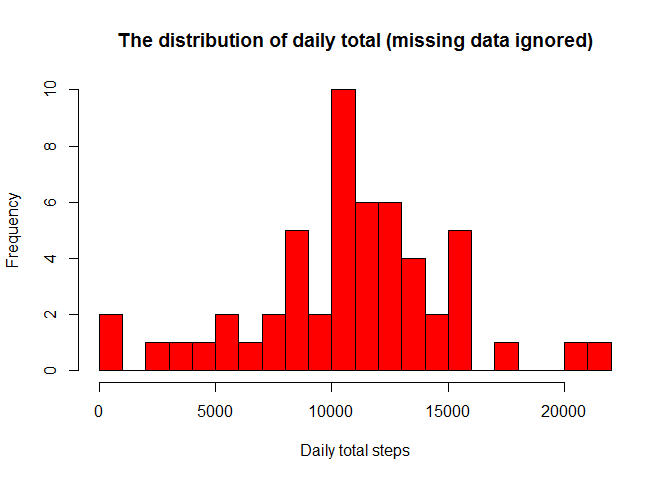
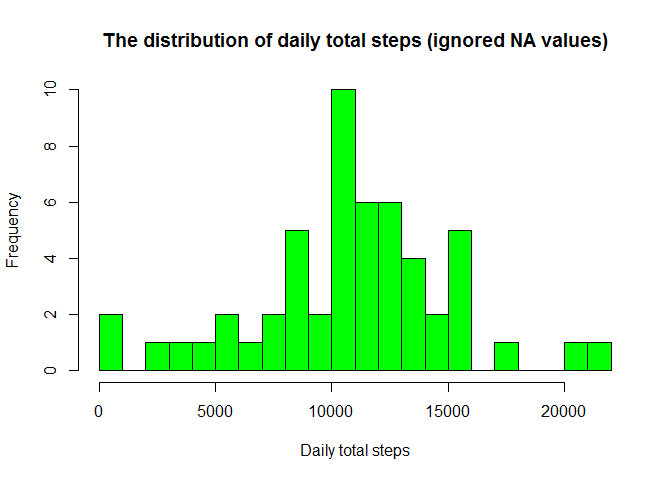
Second commit

diff --git a/PA1_template.html b/PA1_template.html
@@ -123,7 +123,7 @@ $(document).ready(function () {
 <div id="loading-and-preprocessing-the-data" class="section level2">
 <h2>Loading and preprocessing the data</h2>
 <p>Loading data into environment :</p>
-<pre class="r"><code>setwd(&quot;C:/workspace/R training/RepData_PeerAssessment1&quot;)
+<pre class="r"><code>setwd(&quot;C:/workspace/R training/RepData_PeerAssessment1-1&quot;)
 dataset &lt;- read.csv(&quot;activity.csv&quot;, head = TRUE, na.strings = &quot;NA&quot;)
 summary(dataset)</code></pre>
 <pre><code>##      steps                date          interval     
@@ -134,8 +134,12 @@ summary(dataset)</code></pre>
 ##  3rd Qu.: 12.00   2012-10-05:  288   3rd Qu.:1766.2  
 ##  Max.   :806.00   2012-10-06:  288   Max.   :2355.0  
 ##  NA's   :2304     (Other)   :15840</code></pre>
+<pre class="r"><code>max(dataset$interval)</code></pre>
+<pre><code>## [1] 2355</code></pre>
 <p>Proocessing the data: changing data formats into usable formats and cutting out missing values</p>
 <pre class="r"><code>dataset$date &lt;- as.Date(dataset$date)
+dataset$steps &lt;- as.integer(dataset$steps)
+dataset$interval &lt;- as.integer(dataset$interval)
 datasetclean &lt;- subset(dataset, !is.na(dataset$steps))</code></pre>
 </div>
 <div id="what-is-mean-total-number-of-steps-taken-per-day" class="section level2">
@@ -151,26 +155,53 @@ mean(day)</code></pre>
 <pre><code>## [1] 10766.19</code></pre>
 <pre class="r"><code>median(day)</code></pre>
 <pre><code>## [1] 10765</code></pre>
-<ul>
-<li>plotting a histogram to see a distribution of this characteristic</li>
-</ul>
-<pre class="r"><code>dailysum &lt;- tapply(datasetclean$steps, datasetclean$date, sum, na.rm=TRUE, simplify=T)
-dailysum &lt;- dailysum[!is.na(dailysum)]
-
-hist(x=dailysum,
-     col=&quot;red&quot;,
-     breaks=20,
+<p>As we can see above the mean of the total spes taken a day is 10766 steps and median value for this metric is 10765 steps.</p>
+<ol start="2" style="list-style-type: decimal">
+<li>Plotting a histogram to see a distribution of this characteristic</li>
+</ol>
+<pre class="r"><code>hist(x=day,
+     col=&quot;green&quot;,
+     breaks=25,
      xlab=&quot;Daily total steps&quot;,
      ylab=&quot;Frequency&quot;,
-     main=&quot;The distribution of daily total (missing data ignored)&quot;)</code></pre>
[1 lines of base64/hex data omitted]
+     main=&quot;The distribution of daily total steps (ignored NA values)&quot;)</code></pre>
[1 lines of base64/hex data omitted]
+<p>The histogram shows the distribution of total steps taken in a day</p>
 </div>
 </div>
 <div id="what-is-the-average-daily-activity-pattern" class="section level2">
 <h2>What is the average daily activity pattern?</h2>
+<p>As we can see in the data, the number of steps is split in 5 minutes interval, so to show the pattern of the daily activity we will make a plot of the average activity in a 5 minutes interval. I care to mention that i will mediate the average across all the days for the same interval.</p>
+<pre class="r"><code>intervalaverage &lt;- tapply(datasetclean$steps,datasetclean$interval, mean, na.rm = TRUE, simplify = TRUE)
+dataintavg &lt;- data.frame(interval = as.integer(names(intervalaverage)), avg = intervalaverage)
+with(dataintavg,
+     plot(interval, avg, type = &quot;l&quot;,col = &quot;green&quot;, main = &quot;Average Daily Activity Pattern&quot;, xlab = &quot;Number of interval&quot;, ylab = &quot;Average No. of steps taken across all days&quot;))</code></pre>
[1 lines of base64/hex data omitted]
+<p>It’s to be observed that the maximum is reached somewhwre between 700-100 interval, that meaning between 11 am and 5 pm. To have a clear understanding of that, lets see exactly where the maximum lays:</p>
+<pre class="r"><code>maxsteps &lt;- max(dataintavg$avg)
+dataintavg[dataintavg$avg == maxsteps,]</code></pre>
+<pre><code>##     interval      avg
+## 835      835 206.1698</code></pre>
 </div>
 <div id="imputing-missing-values" class="section level2">
 <h2>Imputing missing values</h2>
+<p>First of all we have to find out the number of missing values :</p>
+<pre class="r"><code>sum(is.na(dataset$steps))</code></pre>
+<pre><code>## [1] 2304</code></pre>
+<p>We see that there are 2304 missing values. Our interest in filling those missing values is to not disturb or chenge the distribution of the data and the characteristics of the dataset, so we will do this: we will fill the missing values with the mean values for those time intervals. For this we will create a dataset named : “datasetfilled” in which the missing values will be replaced.</p>
+<pre class="r"><code>datasetfilled &lt;- dataset
+index &lt;- is.na(datasetfilled$steps)
+dataintavg &lt;- tapply(datasetclean$steps, datasetclean$interval, mean, na.rm = TRUE, simplify = TRUE)
+datasetfilled$steps[index] &lt;- dataintavg[as.character(datasetfilled$interval[index])]</code></pre>
+<p>To see if any changes occurs let’s remake the steps did before: histogram and mean/median calculus.</p>
+<pre class="r"><code>newday &lt;- tapply(datasetfilled$steps, datasetfilled$date, sum, na.rm = TRUE, simplify = TRUE)
+hist(x=newday, col = &quot;green&quot;, breaks = 25, xlab = &quot;New calculated daily steps&quot;, ylab = &quot;New Frequency&quot;, main = &quot;The distribution of daily total after NA replacement&quot;)</code></pre>
[1 lines of base64/hex data omitted]
+<pre class="r"><code>mean(newday)</code></pre>
+<pre><code>## [1] 10766.19</code></pre>
+<pre class="r"><code>median(newday)</code></pre>
+<pre><code>## [1] 10766.19</code></pre>
+<p>TO be observed: The median changed to 10766 but that is easy to understand because completing the missing values with means for that specific interval conducts the median to be closer to the mean. Another consequence would be the increase in frequency for the values in the middle of the interval(center region) which are closer to the mean.</p>
 </div>
 <div id="are-there-differences-in-activity-patterns-between-weekdays-and-weekends" class="section level2">
 <h2>Are there differences in activity patterns between weekdays and weekends?</h2>

diff --git a/PA1_template.md b/PA1_template.md
@@ -5,7 +5,7 @@
 Loading data into environment :
 
 ```r
-setwd("C:/workspace/R training/RepData_PeerAssessment1")
+setwd("C:/workspace/R training/RepData_PeerAssessment1-1")
 dataset <- read.csv("activity.csv", head = TRUE, na.strings = "NA")
 summary(dataset)
 ```
@@ -20,10 +20,20 @@ summary(dataset)
 ##  Max.   :806.00   2012-10-06:  288   Max.   :2355.0  
 ##  NA's   :2304     (Other)   :15840
 ```
+
+```r
+max(dataset$interval)
+```
+
+```
+## [1] 2355
+```
 Proocessing the data: changing data formats into usable formats and cutting out missing values
 
 ```r
 dataset$date <- as.Date(dataset$date)
+dataset$steps <- as.integer(dataset$steps)
+dataset$interval <- as.integer(dataset$interval)
 datasetclean <- subset(dataset, !is.na(dataset$steps))
 ```
 
@@ -48,29 +58,98 @@ median(day)
 ```
 ## [1] 10765
 ```
+As we can see above the mean of the total spes taken a day is 10766 steps and median value for this metric is 10765 steps.
 
-- plotting a histogram to see a distribution of this characteristic
+2. Plotting a histogram to see a distribution of this characteristic
+
 
 ```r
-dailysum <- tapply(datasetclean$steps, datasetclean$date, sum, na.rm=TRUE, simplify=T)
-dailysum <- dailysum[!is.na(dailysum)]
-
-hist(x=dailysum,
-     col="red",
-     breaks=20,
+hist(x=day,
+     col="green",
+     breaks=25,
      xlab="Daily total steps",
      ylab="Frequency",
-     main="The distribution of daily total (missing data ignored)")
+     main="The distribution of daily total steps (ignored NA values)")
 ```
 
 ![](PA1_template_files/figure-html/unnamed-chunk-4-1.png)<!-- -->
 
+The histogram shows the distribution of total steps taken in a day
+
 ## What is the average daily activity pattern?
 
+As we can see in the data, the number of steps is split in 5 minutes interval, so to show the pattern of the daily activity we will make a plot of the average activity in a 5 minutes interval. I care to mention that i will mediate the average across all the days for the same interval.
 
 
+```r
+intervalaverage <- tapply(datasetclean$steps,datasetclean$interval, mean, na.rm = TRUE, simplify = TRUE)
+dataintavg <- data.frame(interval = as.integer(names(intervalaverage)), avg = intervalaverage)
+with(dataintavg,
+     plot(interval, avg, type = "l",col = "green", main = "Average Daily Activity Pattern", xlab = "Number of interval", ylab = "Average No. of steps taken across all days"))
+```
+
+![](PA1_template_files/figure-html/unnamed-chunk-5-1.png)<!-- -->
+
+It's to be observed that the maximum is reached somewhwre between 700-100 interval, that meaning between 11 am and 5 pm. To have a clear understanding of that, lets see exactly where the maximum lays:
+
+
+```r
+maxsteps <- max(dataintavg$avg)
+dataintavg[dataintavg$avg == maxsteps,]
+```
+
+```
+##     interval      avg
+## 835      835 206.1698
+```
 ## Imputing missing values
 
+First of all we have to find out the number of missing values :
 
+```r
+sum(is.na(dataset$steps))
+```
+
+```
+## [1] 2304
+```
+
+We see that there are 2304 missing values. Our interest in filling those missing values is to not disturb or chenge the distribution of the data and the characteristics of the dataset, so we will do this: we will fill the missing values with the mean values for those time intervals. For this we will create a dataset named : "datasetfilled" in which the missing values will be replaced.
+
+
+```r
+datasetfilled <- dataset
+index <- is.na(datasetfilled$steps)
+dataintavg <- tapply(datasetclean$steps, datasetclean$interval, mean, na.rm = TRUE, simplify = TRUE)
+datasetfilled$steps[index] <- dataintavg[as.character(datasetfilled$interval[index])]
+```
+
+To see if any changes occurs let's remake the steps did before: histogram and mean/median calculus.
+
+
+```r
+newday <- tapply(datasetfilled$steps, datasetfilled$date, sum, na.rm = TRUE, simplify = TRUE)
+hist(x=newday, col = "green", breaks = 25, xlab = "New calculated daily steps", ylab = "New Frequency", main = "The distribution of daily total after NA replacement")
+```
+
+![](PA1_template_files/figure-html/unnamed-chunk-9-1.png)<!-- -->
+
+```r
+mean(newday)
+```
+
+```
+## [1] 10766.19
+```
+
+```r
+median(newday)
+```
+
+```
+## [1] 10766.19
+```
+
+TO be observed: The median changed to 10766 but that is easy to understand because completing the missing values with means for that specific interval conducts the median to be closer to the mean. Another consequence would be the increase in frequency for the values in the middle of the interval(center region) which are closer to the mean.
 
 ## Are there differences in activity patterns between weekdays and weekends?
